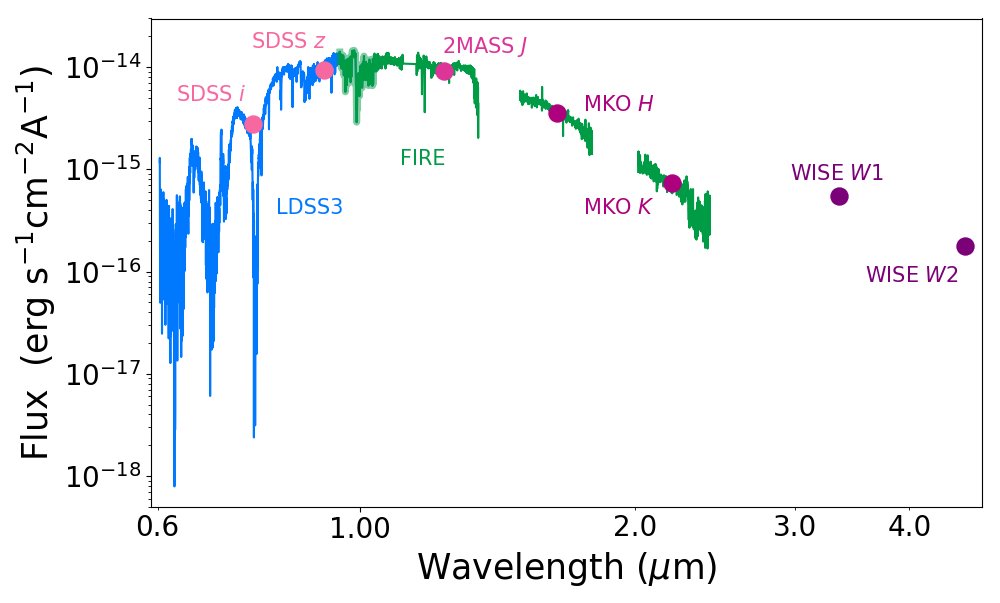
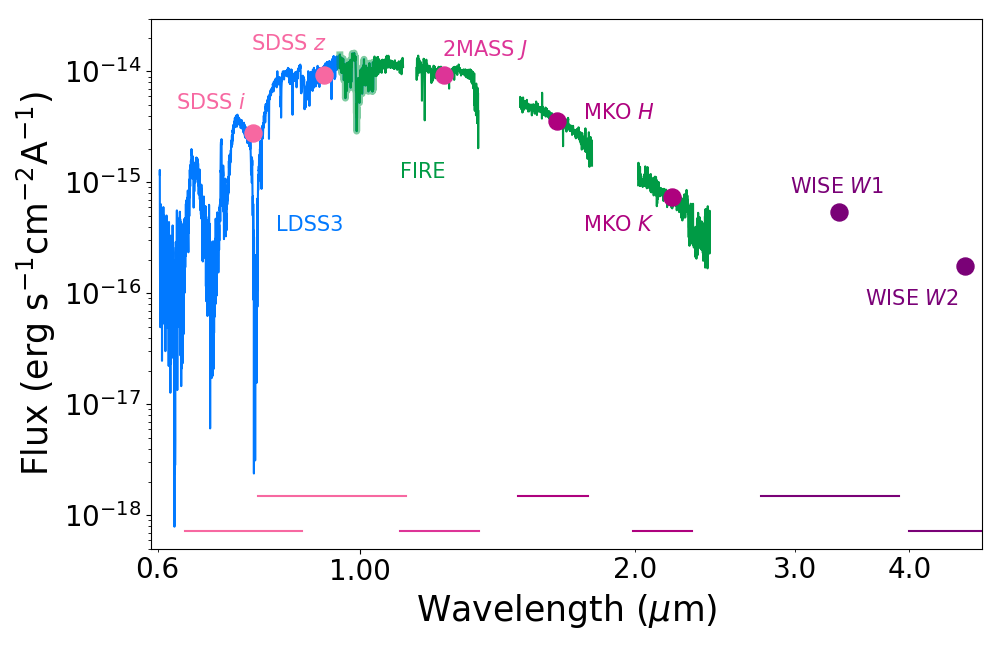
Final version. Added photometric bandpass ranges

diff --git a/regimes.py b/regimes.py
@@ -24,9 +24,11 @@ df2 = pd.read_csv('Data/correctpi1256-0224 (L3.5sd) phot.txt', sep=" ", header=1
 opt = df[(df['w'] <= 0.950454)]
 overlap = df[(df['w'] >= 0.950328) & (df['w'] <= 1.03426)]
 # nir = df[(df['w'] > 1.03426)]  # Split bands and cut out some junk
+z = df[(df['w'] >= 0.950328 ) & (df['w'] <= 1.11474)]
+j = df[(df['w'] >= 1.15308) & (df['w'] <= 1.3500 )]
 h = df[(df['w'] >= 1.48933) & (df['w'] <= 1.8)]
 k = df[(df['w'] >= 2.0175)]
-zj = df[(df['w'] >= 0.950328) & (df['w'] <= 1.3500)]
+# zj = df[(df['w'] >= 0.950328) & (df['w'] <= 1.3500)]
 
 fig = plt.figure()
 ax1 = fig.add_subplot(111)
@@ -38,7 +40,9 @@ plt.gcf().subplots_adjust(bottom=0.15, left=0.15)  # This makes sure that the la
 ax1.loglog(opt['w'], opt['f'], c='#0179FF')
 ax1.loglog(overlap['w'], overlap['f'], c='#009B45', lw=5, alpha=0.5)
 ax1.loglog(overlap['w'], overlap['f'], c='#0179FF', alpha=0.8)  # alpha=0.3 for transparency
-ax1.loglog(zj['w'], zj['f'], c='#009B45')
+# ax1.loglog(zj['w'], zj['f'], c='#009B45')  #remove the combined line from the begining of the J band
+ax1.loglog(z['w'], z['f'], c='#009B45')
+ax1.loglog(j['w'], j['f'], c='#009B45')
 ax1.loglog(h['w'], h['f'], c='#009B45')
 ax1.loglog(k['w'], k['f'], c='#009B45')
 
@@ -63,7 +67,7 @@ plt.yticks(fontsize=20)
 
 # ------ Axes Labels --------
 plt.xlabel('Wavelength ($\mu$m)', fontsize=25)
-plt.ylabel('Flux  ($\mathrm{erg\ s^{-1} cm^{-2} A^{-1}}$)', fontsize=25)
+plt.ylabel('Flux ($\mathrm{erg\ s^{-1} cm^{-2} A^{-1}}$)', fontsize=25)
 
 # ------ Labeling Spectra and Photometric points --------
 ax1.text(0.3, 0.7, 'FIRE', transform=ax1.transAxes, color='#009B45', fontsize=15)
@@ -76,7 +80,43 @@ ax1.text(0.35, 0.93, '2MASS $J$', transform=ax1.transAxes, color='#dd3497', font
 ax1.text(0.03, 0.83, 'SDSS $i$', transform=ax1.transAxes, color='#f768a1', fontsize=15)
 ax1.text(0.12, 0.94, 'SDSS $z$', transform=ax1.transAxes, color='#f768a1', fontsize=15)
 
-# plt.tight_layout() use to minimize whitespace on edges. May be best for figures in the paper
+# ---------- Add Bandpasses for the photometry -------------
+sdss_i = pd.DataFrame()
+sdss_i['x'] = [0.6430, 0.8630]
+sdss_i['y'] = [7.2961*10**(-19), 7.2961*10**(-19)]
+plt.plot(sdss_i['x'], sdss_i['y'], color='#f768a1', linestyle='solid')
+
+sdss_z = pd.DataFrame()
+sdss_z['x'] = [0.7730, 1.1230]
+sdss_z['y'] = [1.5*10**(-18), 1.5*10**(-18)]
+plt.plot(sdss_z['x'], sdss_z['y'], color='#f768a1', linestyle='solid')
+
+twomass_j = pd.DataFrame()
+twomass_j['x'] = [1.105, 1.349]
+twomass_j['y'] = [7.2961*10**(-19), 7.2961*10**(-19)]
+plt.plot(twomass_j['x'], twomass_j['y'], color='#dd3497', linestyle='solid')
+
+MKO_H = pd.DataFrame()
+MKO_H['x'] = [1.490, 1.780]
+MKO_H['y'] = [1.5*10**(-18), 1.5*10**(-18)]
+plt.plot(MKO_H['x'], MKO_H['y'], color='#ae017e', linestyle='solid')
+
+MKO_K = pd.DataFrame()
+MKO_K['x'] = [1.990, 2.310]
+MKO_K['y'] = [7.2961*10**(-19), 7.2961*10**(-19)]
+plt.plot(MKO_K['x'], MKO_K['y'], color='#ae017e', linestyle='solid')
+
+W1 = pd.DataFrame()
+W1['x'] = [2.75, 3.9]
+W1['y'] = [1.5*10**(-18), 1.5*10**(-18)]
+plt.plot(W1['x'], W1['y'], color='#7a0177', linestyle='solid')
+
+W2 = pd.DataFrame()
+W2['x'] = [4, 5.4]
+W2['y'] = [7.2961*10**(-19), 7.2961*10**(-19)]
+plt.plot(W2['x'], W2['y'], color='#7a0177', linestyle='solid')
+
+plt.tight_layout()  # use to minimize whitespace on edges. May be best for figures in the paper
 plt.savefig('Plots/regimes.png')
 
 # -------- Add the bandpasses at the bottom of the plot ---------
